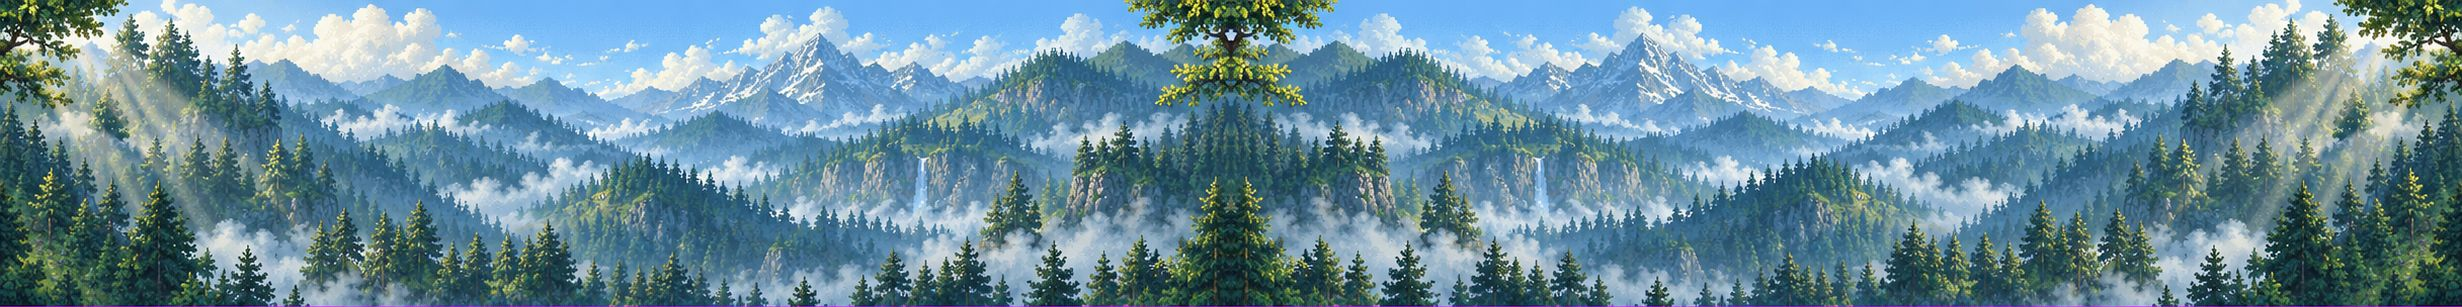
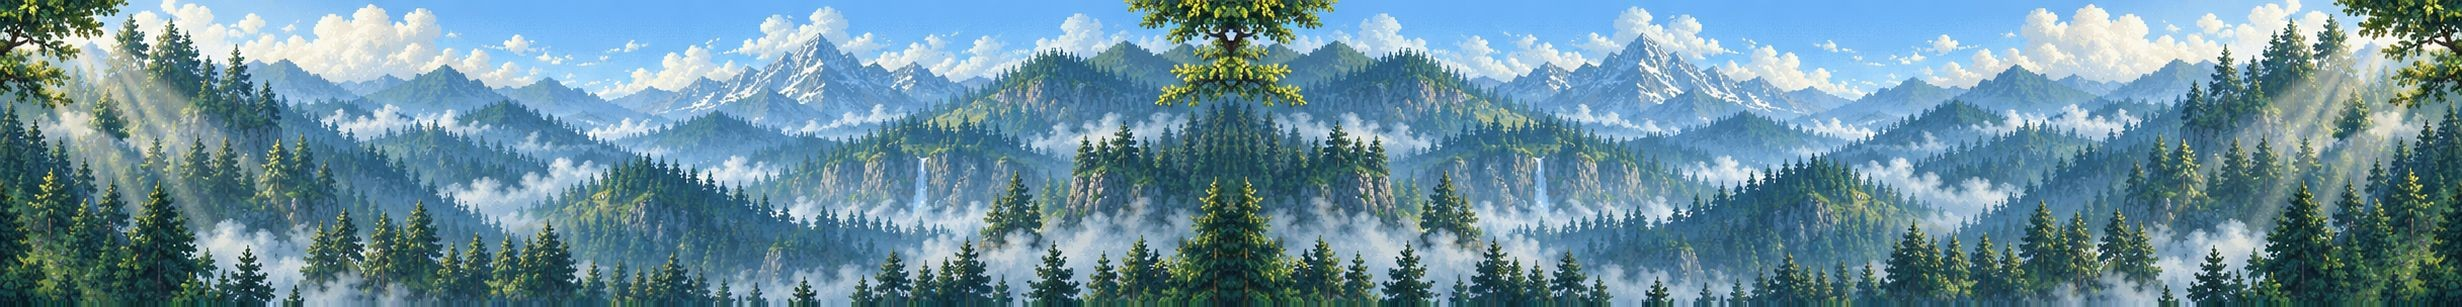
加载背景：远景图底边残留的一行洋红线去掉
Claude-Session: https://claude.ai/code/session_011WrGna6yNwTfpmyp4CxMHs

Changed region(s): [[0.0, 0.9674, 1.0, 1.0]]

diff --git a/index.html b/index.html
@@ -53,7 +53,7 @@ for(var i=0;i<10;i++){var bt=hb+lane[i]*K/2;var g=mk(fr('enemies/'+kinds[i>>1],'
 // 卧室画在画布上，碎裂时按方块掉落
 var cv=document.createElement('canvas');cv.width=W;cv.height=H;cv.style.cssText='position:absolute;inset:0;z-index:1;pointer-events:none;image-rendering:pixelated';b.insertBefore(cv,b.firstChild.nextSibling);var cx=cv.getContext('2d');
 var room=document.createElement('canvas');room.width=W;room.height=H;var rimg=new Image();rimg.onload=function(){var s=Math.max(W/rimg.width,H/rimg.height),w=rimg.width*s,h=rimg.height*s,r=room.getContext('2d');r.drawImage(rimg,(W-w)/2,Math.min(0,(H-h)*.75),w,h)};rimg.src='assets/ui/bedroom.jpg';
-var LY={};['far','mid','ground'].forEach(function(k){var i=new Image();i.src='assets/ui/forest_'+k+(k==='far'?'.jpg':'.png');LY[k]=i});
+var LY={};['far','mid','ground'].forEach(function(k){var i=new Image();i.src='assets/ui/forest_'+k+(k==='far'?'.jpg?v=2':'.png');LY[k]=i});
 var fg=document.createElement('canvas');fg.width=W;fg.height=H;fg.style.cssText='position:absolute;inset:0;z-index:1500;pointer-events:none';b.appendChild(fg);var fx=fg.getContext('2d');
 var GY=H-hb;   // 人物脚底所在的屏幕 y
 function strip(c,im,sc,y,h){if(!im.width)return;var w=im.width*h/im.height;for(var x=-((sc%w)+w)%w;x<W;x+=w)c.drawImage(im,Math.floor(x),Math.round(y),Math.ceil(w)+1,Math.round(h))}
